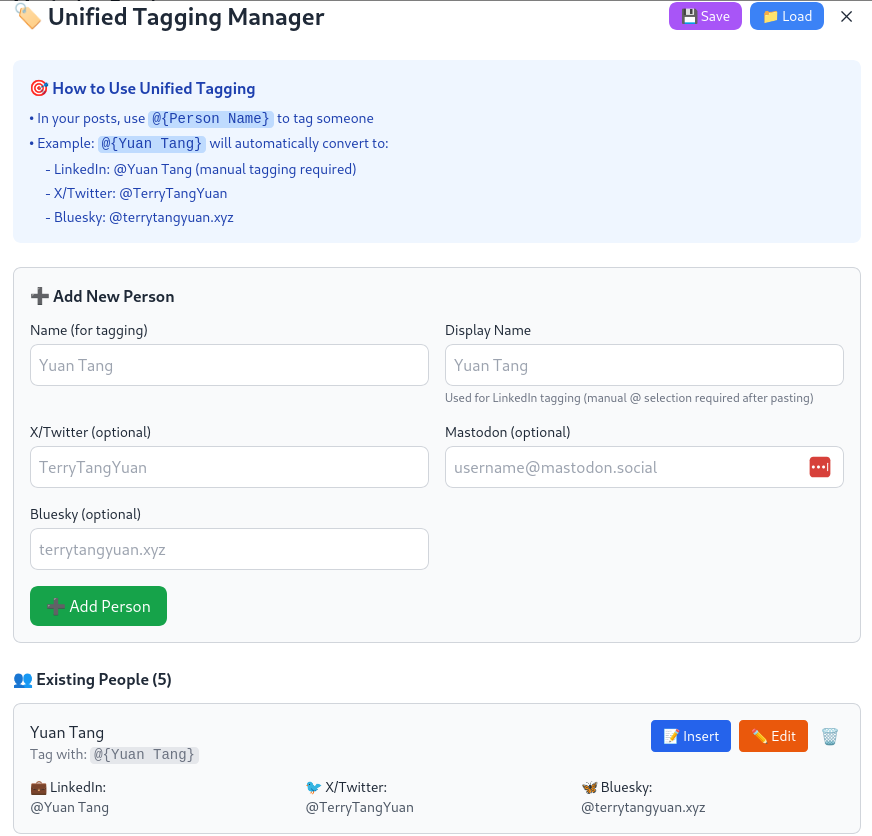
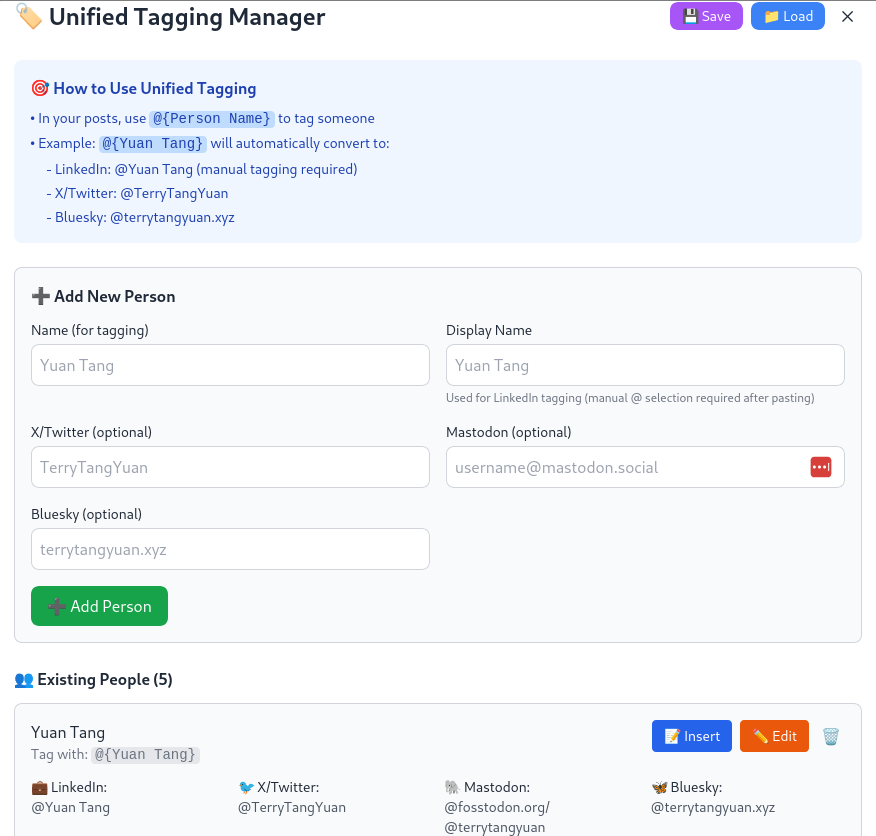
Add missing Mastodon display field

diff --git a/src/App.tsx b/src/App.tsx
@@ -3598,7 +3598,7 @@ function App() {
                                   </button>
                                 </div>
                               </div>
-                              <div className="grid grid-cols-1 md:grid-cols-3 gap-3 text-sm">
+                              <div className="grid grid-cols-1 md:grid-cols-2 lg:grid-cols-4 gap-3 text-sm">
                                 <div>
                                   <span className="font-medium">💼 LinkedIn:</span>
                                   <p className={`${darkMode ? "text-gray-300" : "text-gray-600"}`}>
@@ -3609,6 +3609,12 @@ function App() {
                                   <span className="font-medium">🐦 X/Twitter:</span>
                                   <p className={`${darkMode ? "text-gray-300" : "text-gray-600"}`}>
                                     {person.twitter ? `@${person.twitter}` : 'Not set'}
+                                  </p>
+                                </div>
+                                <div>
+                                  <span className="font-medium">🐘 Mastodon:</span>
+                                  <p className={`${darkMode ? "text-gray-300" : "text-gray-600"}`}>
+                                    {person.mastodon ? `@${person.mastodon}` : 'Not set'}
                                   </p>
                                 </div>
                                 <div>
